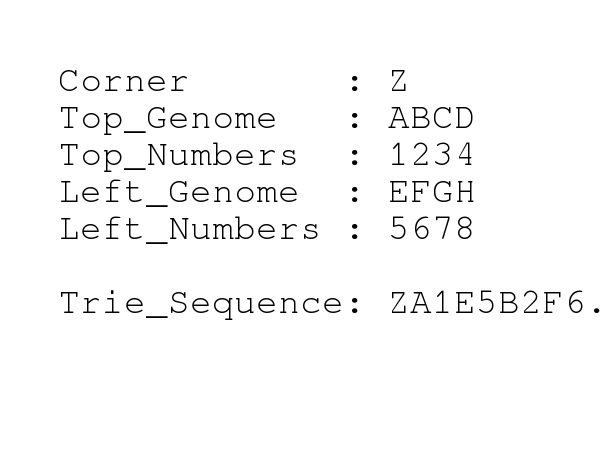
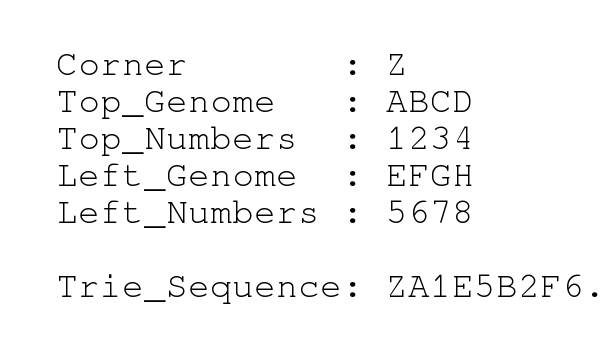
Revised some sections. Changed the trie diagram.

diff --git a/doc/writeup/poneil_jhong_writeup.tex b/doc/writeup/poneil_jhong_writeup.tex
@@ -64,28 +64,27 @@ We want to try and identify sections of the matrix that we don't have to do in t
 Our server was implemented in C++ with the help of the Msgpack library for data serialization, and the Boost library for socket IO and help parsing command line arguments. The implementation of the server is broken up into parts, described by our architecture.
 
 \subsection{Problem Specification}
-One of the main ideas behind our approach is that a local alignment problem can be described by four sequences: The two genome sequences we are trying to align, and two initial sequences of numbers representing the top row and left-most column of the matrix. This in effect uniquely ``identifies'' a problem, and every problem with these four matching sequences will have the same solution. The architecture of our project is designed around passing around and storing these problem specifications to complete the task.
+One of the main ideas behind our approach is that a local alignment problem can be described by four sequences and a number: The two genome sequences we are trying to align, two initial sequences of numbers representing the top row and left-most column of the matrix, and one number representing the top-left corner of the matrix (if applicable). This in effect uniquely ``identifies'' a problem, and every problem with these four matching sequences and corner will have the same solution. The architecture of our project is designed around passing around and storing these problem specifications to complete the task.
 
 
 \subsection{Architecture}
-Our project divides into four sections: A Client, a Leader, Storage, and Workers. This allows for us to better modularize the tasks performed by a local alignment server, and it gives abstractions and interfaces for the components to call. For example, it does not matter to the Leader and Worker classes what the real backing implementation of Storage is, as long as store and query calls work. 
+Our project divides into four sections: A Client, a Leader, Storage, and Workers. This allows for us to better modularize the tasks performed by a local alignment server, and it gives abstractions and interfaces for the components to call. For example, it does not matter to the Leader and Worker classes what the real backing implementation of Storage is, as long as the store and query calls work. This framework is what will allow us to change or upgrade components in the future. 
 
 This architecture also allows us to have many worker nodes being managed by a Leader, increasing our problem solving capacity. 
 We could also potentially have multiple Leader nodes and Storage nodes as well, especially if our system were to scale up to handle much larger requests.
 
 \subsubsection{Client}
-The Client uploads genomes to the Leader, and then sends queries for local alignment problems. The Leader pass on uploaded genomes to Storage to be stored, and it will handle alignment queries, responding with solutions in the form of a completed matrix and the location of the maximum value.
+The Client uploads genomes to the Leader, and then sends queries for local alignment problems. The Leader pass on uploaded genomes to Storage, and then handle the alignment queries by responding with solutions. The solutions returned will be a completed matrix and the location of the maximum value.
 
 \subsubsection{Leader}
 The Leader handles queries from the Client as well as allocates work to Workers and manage the solutions. A Leader can allocate work to a Worker by specifying the border initialization, both of the genome sequences and the first numerical row and column to fill out the rest of the matrix. A Worker can complete a solution and inform the Leader of its location in Storage. Once a solution has been indicated, a Leader can then query Storage to pick it up, to send back to the Client. 
 
 \subsubsection{Storage}
 The Storage is a database for the Leader and Worker to store and query items such as genomes, and solutions to alignment problems. Genomes have identifications that can be matched against, and alignment problem solutions matched by their problem description. 
-A Worker will produce solutions and store them into Storage. It will also check to see if a solution already exists, which then it does not have to do any additional work.
+A Worker will produce solutions and store them into Storage. It will also check to see if a solution already exists, and if so it does not have to do any additional work.
 
 \subsubsection{Worker}
-When a Worker is available, it queries the Leader asking for problems to work on. The Leader can then respond with problems that can be claimed. A Worker claims a problem specification, of which it begins filling out the solution, finally storing the Solution in Storage.
-If a solution already exists in Storage, then a Worker does not have to do additional work. In either case it will tell the Leader its location.
+When a Worker is ready, it queries the Leader asking for problems to work on. The Leader can then respond with problems that can be claimed. A Worker then claims a problem specification, checks storage, and if applicable, fills out the solution and sends it off to Storage. It responds to the Leader that it is finished.
 
 \subsection{Improvements, Speedups}
 After a base system of this architecture was implemented, there were some several improvements that were made. When a Worker requests for a list of problems, the Leader does not immediately close the connection if there are none, but instead keeps a list of available Workers that it can broadcast to when new problems are available. This cuts down some of the network overhead when a Worker is ready for new problems. %TODO. more speedups.
@@ -110,19 +109,24 @@ Some approaches to this could include training a language model for gene sequenc
 
 \subsection{Partial Solution Matching}
 
+\begin{figure*}
+  \centering 
+  \includegraphics[width=0.7\textwidth]{trie_corrected}
+  \caption{An example Trie Sequence for approximate matching. The four sequences and the corner number is given.}
+  \label{fig:trie}
+\end{figure*}
+
+
 Another feature we wanted Storage to have was partial solution matching. Given a problem specification, a Worker will query into Storage checking to see if it already exists, and it might be possible for Storage to return a solution that mostly matches what the Worker was looking for. This would allow the Worker to fill in most of their matrix easily, fill in the rest manually, and then return the solution.
 
-We will accomplish this with a type of Trie data structure, traversing down the Trie with a problem specification by alternating and matching each of the four sequences. For example, we would traverse the Trie by matching the first character of the first genome, the first number of the top row, the first character of the second genome, the first number of the first column, then the second character of the first genome, etc. 
+
+
+We will accomplish this with a type of Trie data structure, traversing down the Trie with a problem specification by alternating and matching each of the four sequences. For example, we would traverse the Trie by matching the corner, then the first character of the first genome, the first number of the top row, the first character of the second genome, the first number of the first column, then the second character of the first genome, etc. 
 
 In this way, the Trie is matching the upper left corner of a problem and progressively growing out, and traversing further down the trie represents a better partial solution match. See figure 1.
 
 
-\begin{figure}[p]
-    %\centering
-    \includegraphics[width=0.5\textwidth]{trie}
-    \caption{A Trie Sequence to determine an approximate match for a problem.}
-    \label{fig:trie}
-\end{figure}
+
 
 \subsection{Worker-Side Cache}
 
@@ -133,6 +137,9 @@ These approaches will help reduce network latency, and possibly help the Workers
 \section{Results}
 
 How well did your method work compared to others?
+
+We ran our experiments with genome data found in the PREFAB database \cite{Edgar:04}.
+
 
 \section{Conclusions} 
 
@@ -151,16 +158,21 @@ What did you learn? What should we come away with?
 Azzedine Boukerche.
 \newblock 2012.
 \newblock {\em Exact Parallel Alignment of Megabase genomic Sequences with Tunable Work Distribution},
-\newblock International Journal of Foundations of Computer Science.
-\newblock World Scientific Publishing Company  
-
+\newblock International Journal of Foundations of Computer Science 23(2), 407-429.
 
 \bibitem[\protect\citename{Rognes}2011]{Rognes:11}
 Rognes, Torbj.
 \newblock 2011.
 \newblock {\em Faster Smith-Waterman Database Searches with Inter-sequence SIMD Parallelisation}
-\newblock BMC bioinformatics.
-\newblock BioMed Central Ltd.
+\newblock BMC bioinformatics 12(1), 221.
+
+\bibitem[\protect\citename{Edgar}2004]{Edgar:04}
+Edgar, Robert C.
+\newblock 2004.
+\newblock {\em MUSCLE: multiple sequence alignment with high accuracy and high throughput}
+\newblock Nucleic Acids Research 32(5), 1792-97.
+
+
 
 
 
